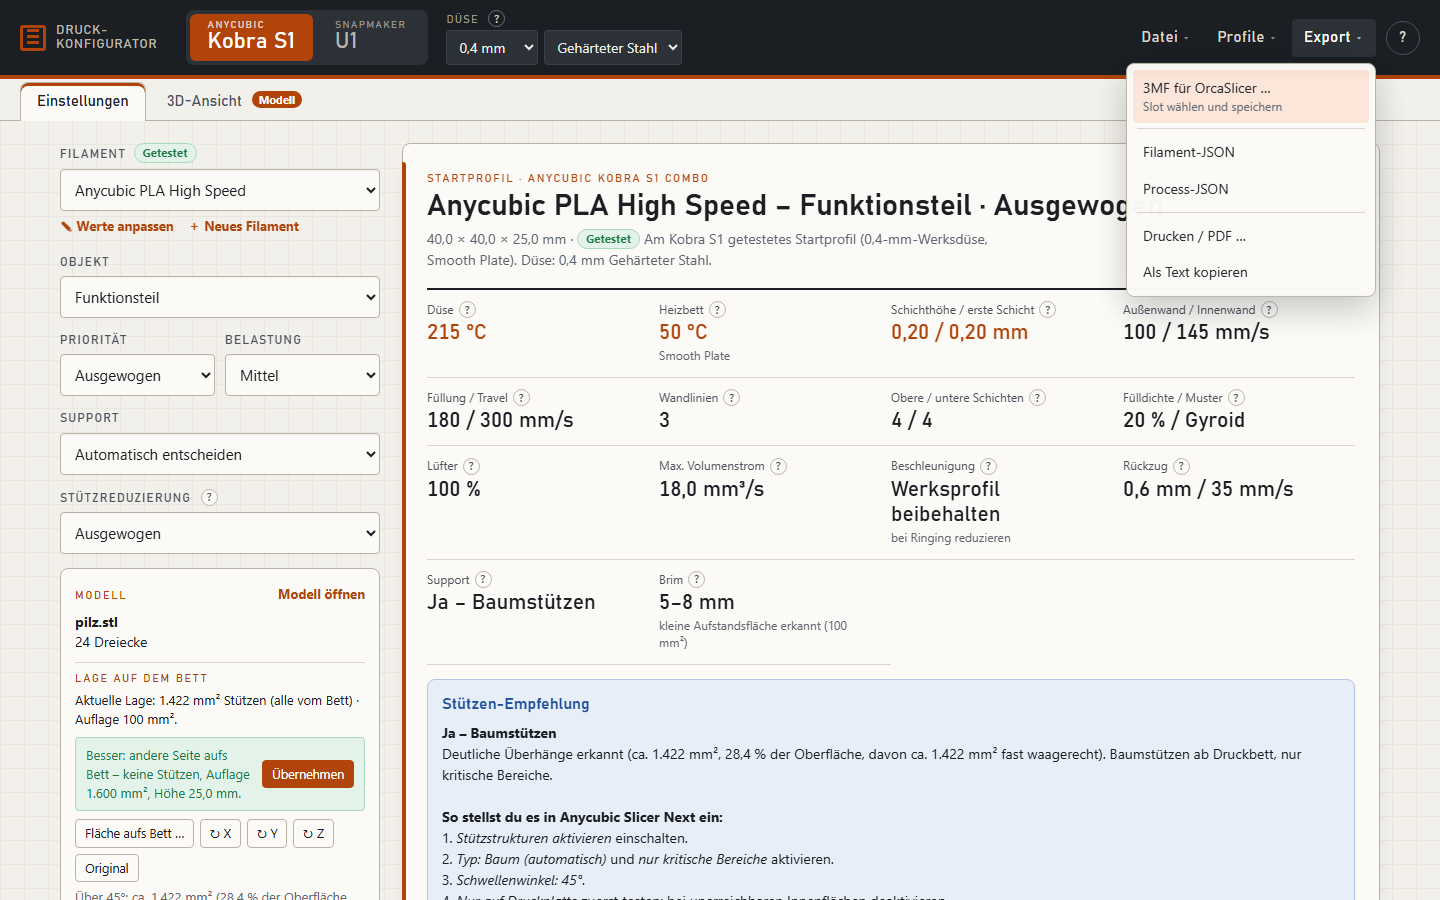
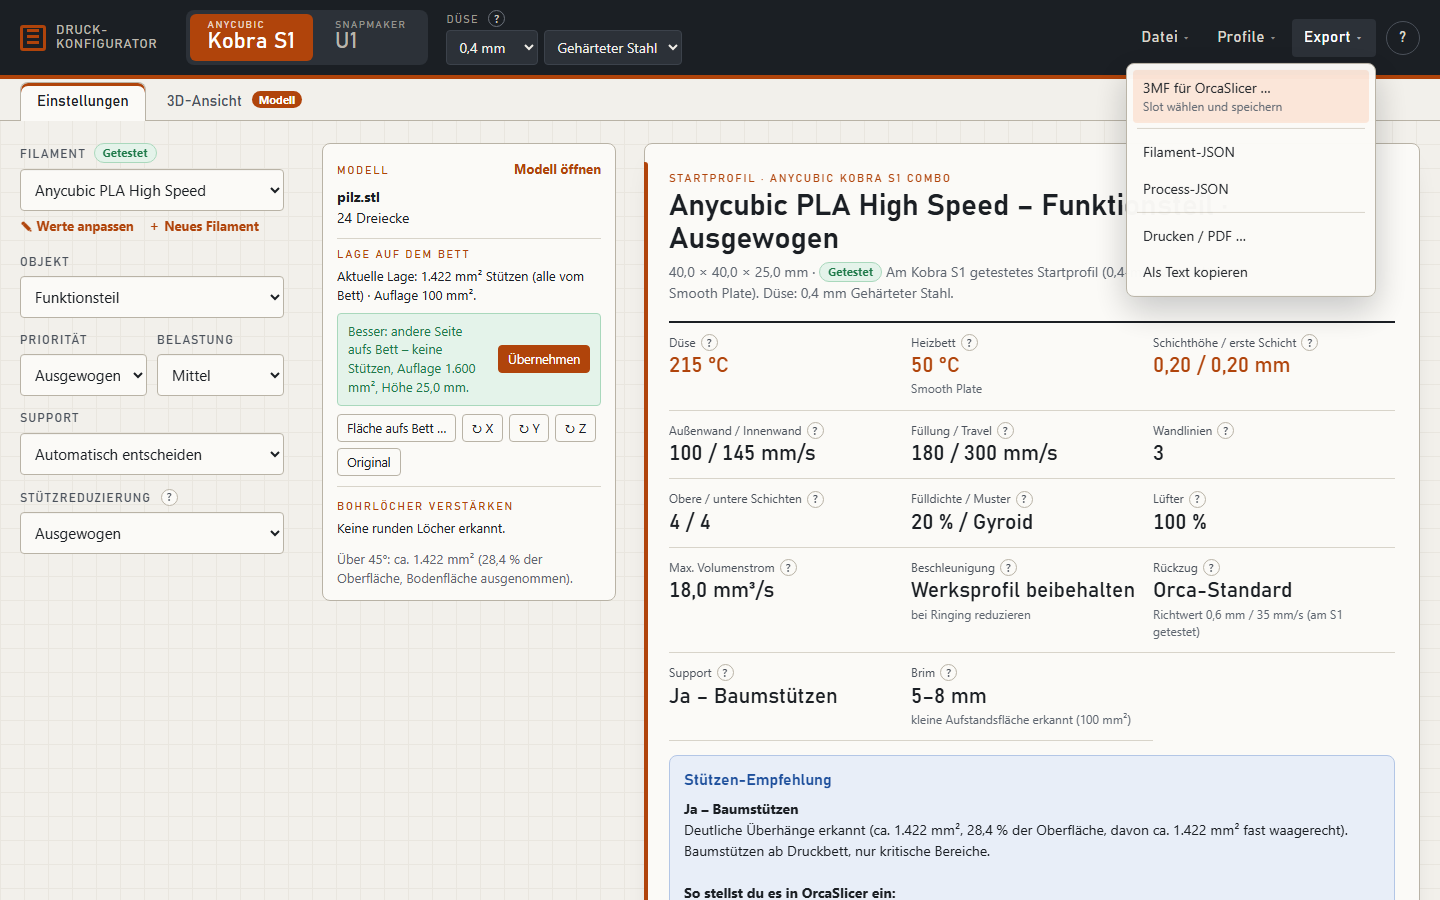
docs: Screenshots mit der dreispaltigen Ansicht; kleinere Texte im Export-Dialog
- Handbuch-Bilder und PDF neu (Auswahl | Modell | Datenblatt)
- Slot-Karten: 'unbekannt' statt abgeschnittenem Text; kein doppeltes '2 Teile (2 Teile)'
- Screenshot-Hilfsseite füllt das Fenster (keine waagerechte Laufleiste)

diff --git a/js/export-ui.js b/js/export-ui.js
@@ -38,7 +38,7 @@ function renderSlotList(tpl,preselect){
   $('slotList').innerHTML=slots.map(s=>
     '<label class="slot'+(s.present?'':' absent')+'" title="'+esc(s.name)+'"><input type="radio" name="slot" value="'+s.idx+'"'+(s.idx===preselect?' checked':'')+'>'+
     '<span class="swatch" style="background:'+esc(/^#[0-9a-f]{6}$/i.test(s.colour)?s.colour:'#888888')+'"></span>'+
-    '<span class="slot-text"><b>Slot '+(s.idx+1)+'</b>'+(s.type?' · '+esc(s.type):s.present?'':' · leer')+'<small>'+esc(!s.present?'kein Filament':s.name||'Filament nicht bekannt')+'</small></span></label>').join('');
+    '<span class="slot-text"><b>Slot '+(s.idx+1)+'</b>'+(s.type?' · '+esc(s.type):s.present?'':' · leer')+'<small>'+esc(!s.present?'kein Filament':s.name||'unbekannt')+'</small></span></label>').join('');
   const src=document.querySelector('.slot-source'),kind=slotSource(tpl).kind;
   src.classList.toggle('live',kind!=='template');src.classList.toggle('fallback',kind==='template'&&!!slotState.note);
   $('slotSource').textContent=kind==='live'
@@ -135,7 +135,7 @@ function openExportDialog(){
   const r=lastResult,tpl=exportTemplate(r.printer.id,r.dSel);
   if(!tpl||!project)return;
   if(slotState.printer!==r.printer.id)slotState={printer:r.printer.id,live:null,note:''};
-  $('exportSub').textContent=project.name+(project.parts.length>1?' ('+project.parts.length+' Teile)':'')+' · '+r.m.name+' · Vorlage: '+tpl.printerPreset+' (OrcaSlicer '+tpl.orcaVersion+')';
+  $('exportSub').textContent=project.name+(project.parts.length>1&&!/Teile$/.test(project.name)?' ('+project.parts.length+' Teile)':'')+' · '+r.m.name+' · Vorlage: '+tpl.printerPreset+' (OrcaSlicer '+tpl.orcaVersion+')';
   const [bw,bd]=bedSize(tpl);
   let tooBig=[];
   if(project.threemf){

diff --git a/tests/screenshot.html b/tests/screenshot.html
@@ -1,4 +1,4 @@
-<!doctype html><meta charset="utf-8"><style>body{margin:0}iframe{border:0;width:1440px;height:900px}</style>
+<!doctype html><meta charset="utf-8"><style>body{margin:0}iframe{border:0;width:100vw;height:100vh;display:block}body{overflow:hidden}</style>
 <!-- Hilfsseite für Sichtprüfungen: ?printer=snapmaker_u1&model=1|2&tab=3d&menu=2&export=3 – headless-Screenshot über http://127.0.0.1 laden. -->
 <iframe id="f" src="../index.html"></iframe>
 <script>
